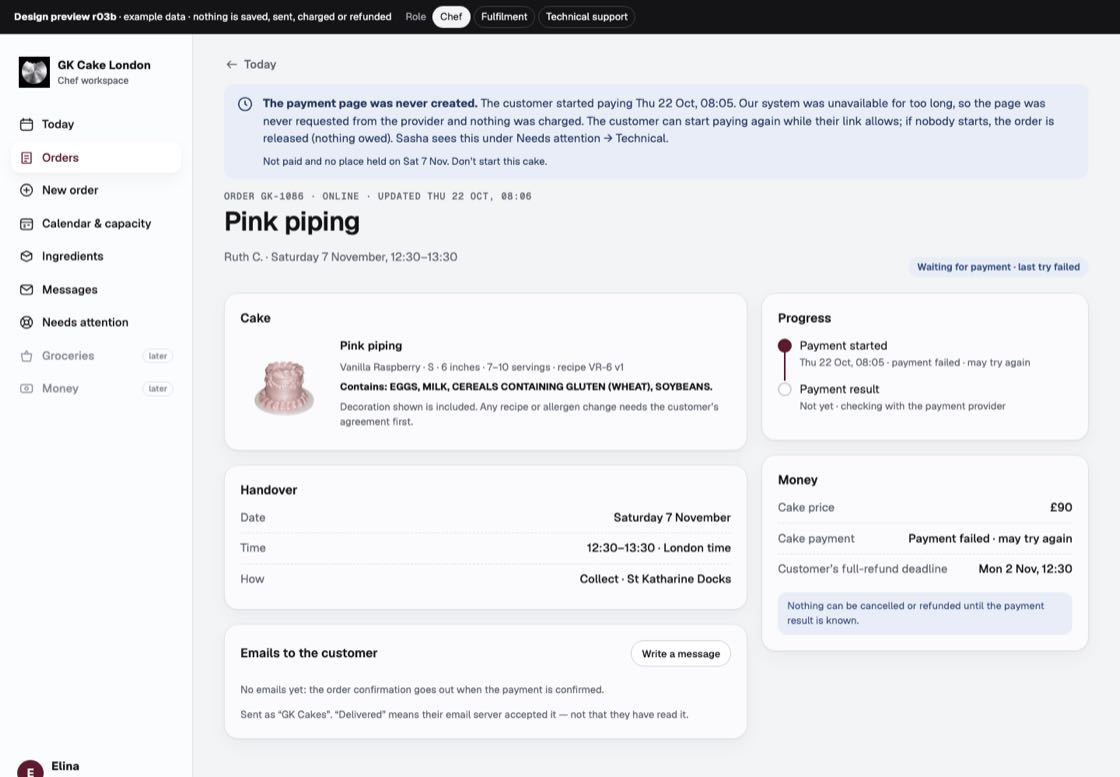
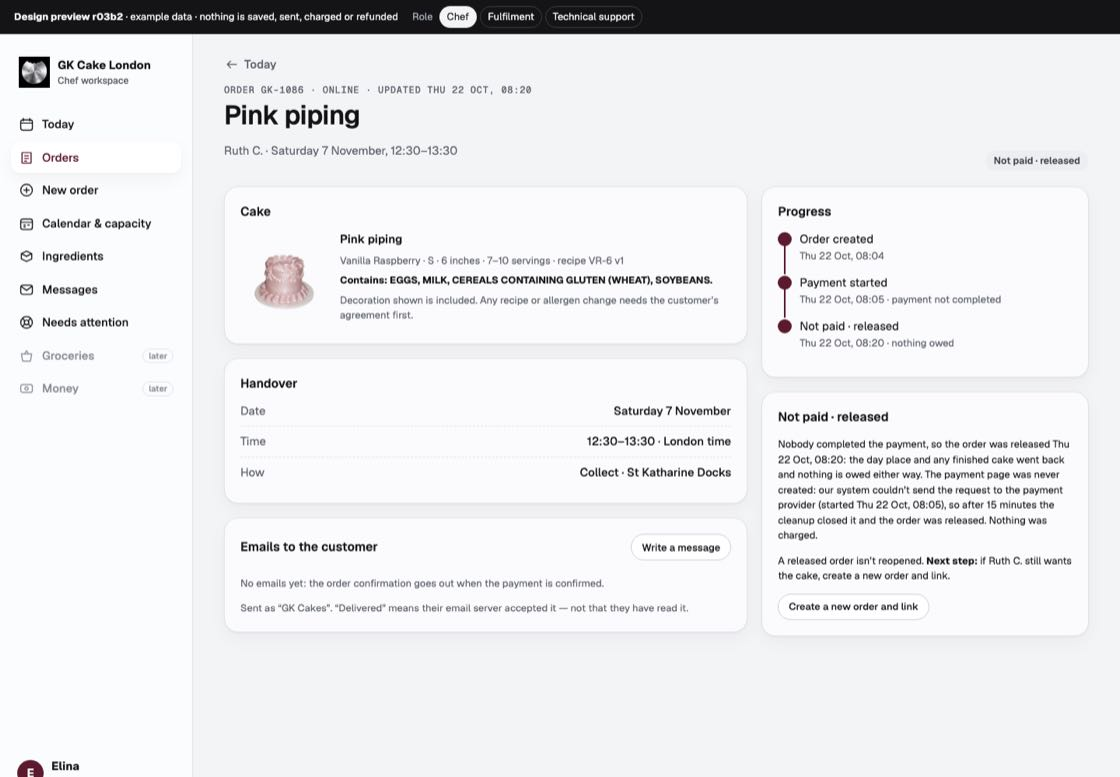
GK-018 r03b2: GK-1086 follows the hold review — the never-dispatched cleanup closes the created collection at 15 minutes (cancelled, never_dispatched) and the order is released (payment_not_completed; next step: a new order and link); Technical card says expired_before_dispatch only happens when the

diff --git a/docs/design/sessions/chef-operations/gk-018-r03/poc/order.js b/docs/design/sessions/chef-operations/gk-018-r03/poc/order.js
@@ -40,9 +40,9 @@ const banners=[];
 if(stale)banners.push(`<div class="banner banner-warn" role="alert">${icon('alert','banner-icon')}<div><p><strong>This order changed while you were looking.</strong> The collection time was moved to 12:00–13:00 at 10:44 on another device. Review the latest version before you act.</p><a class="btn btn-small" href="order.html?id=GK-1036&state=moved">Show latest</a></div></div>`);
 if(o.shortNotice)banners.push(`<div class="banner banner-info">${icon('clock','banner-icon')}<div><p><strong>Short notice · your choice</strong> <span class="chip-s chip-warn">proposed · needs K04 amendment</span> Paid in full ${when(o.paidAt)} — ${Math.round(hoursBetween(o.paidAt,startAt))} hours before handover (online orders need at least 192). You approved this on ${when(o.shortNotice.approvedAt)}: “${esc(o.shortNotice.reason)}”</p><p class="small">Your link let the customer start paying until ${when(o.shortNotice.startBy)} and accepted the order automatically only if paid in full by ${when(o.shortNotice.completeBy)}. They started ${when(o.paymentStartedAt)} and it completed in time.</p><p class="small">The customer’s full-refund deadline (${when(o.deadlineAt)}) had already passed when they paid, so if the customer cancels they get 50%.</p></div></div>`);
 // Waiting for payment: the collection's live state (created / pending / unknown, or a mismatch kept unknown).
-if(o.stage==='awaiting'){const p=o.payment||{};const m=p.mismatch;const head=m?'Payment doesn’t match the order.':p.state==='pending'?'Payment in progress.':p.state==='unknown'?'Payment result unknown.':p.reason==='expired_before_dispatch'?'The payment page was never created.':'Waiting for payment.';
+if(o.stage==='awaiting'){const p=o.payment||{};const m=p.mismatch;const head=m?'Payment doesn’t match the order.':p.state==='pending'?'Payment in progress.':p.state==='unknown'?'Payment result unknown.':'Waiting for payment.';
  const long=p.startedAt&&hoursBetween(p.startedAt,NOW)>0.25;
- banners.push(`<div class="banner ${m?'banner-bad':'banner-info'}" role="status">${icon(m?'alert':'clock','banner-icon')}<div><p><strong>${head}</strong> ${p.startedAt?`The customer started paying ${when(p.startedAt)}.`:''} ${p.reason==='expired_before_dispatch'?'Our system was unavailable for too long, so the page was never requested from the provider and nothing was charged. The customer can start paying again while their link allows; if nobody starts, the order is released (nothing owed). Sasha sees this under Needs attention → Technical.':m?(seesMoney?'The provider reports '+esc(m)+' ':'')+'It isn’t accepted: the order is never confirmed on payment evidence that doesn’t match.':p.state==='pending'&&!long?'The payment page is open.':'We’re checking with the payment provider'+(p.checkedAt?` (last checked ${when(p.checkedAt,{hour:'2-digit',minute:'2-digit',hourCycle:'h23'})})`:'')+'.'}</p>
+ banners.push(`<div class="banner ${m?'banner-bad':'banner-info'}" role="status">${icon(m?'alert':'clock','banner-icon')}<div><p><strong>${head}</strong> ${p.startedAt?`The customer started paying ${when(p.startedAt)}.`:''} ${m?(seesMoney?'The provider reports '+esc(m)+' ':'')+'It isn’t accepted: the order is never confirmed on payment evidence that doesn’t match.':p.state==='pending'&&!long?'The payment page is open.':'We’re checking with the payment provider'+(p.checkedAt?` (last checked ${when(p.checkedAt,{hour:'2-digit',minute:'2-digit',hourCycle:'h23'})})`:'')+'.'}</p>
  <p class="small">${HELD(o)?`${long||p.state==='unknown'?'The customer sees “Still checking payment; do not pay again”. ':''}No second payment can start while this one may still succeed. The place on ${dayShort(o.date)} stays held until we know${m?' and a manager has reconciled it':''}. `:`Not paid and no place held on ${dayShort(o.date)}. `}Don’t start this cake.</p>
  ${o.link&&seesMoney?`<p class="small">Your link: ${o.link.startBy===o.link.completeBy?`the customer must start and finish paying by <strong>${when(o.link.completeBy)}</strong> (192 hours before the handover, which came before the usual 24 hours)`:`the customer could start paying until <strong>${when(o.link.startBy)}</strong> and it’s accepted automatically only if paid in full by <strong>${when(o.link.completeBy)}</strong>`}. If it completes later it becomes “${LATE_LABEL()}”, never accepted silently.</p>`:''}
  ${m?`<p class="small"><a href="support.html">Needs attention</a> · a manager reconciles it (tools designed with GK-026).</p>`:''}</div></div>`)}
@@ -73,7 +73,7 @@ function deliveryCard(){if(o.mode!=='delivery')return '';const D=o.delivery;cons
  return `<section class="card" aria-labelledby="del-h"><h2 id="del-h" class="card-h">${icon('truck')}GK delivery</h2><dl class="facts"><div><dt>Address</dt><dd>${addr}</dd></div><div><dt>Delivery money</dt><dd>${dmoney}</dd></div></dl>${body}</section>`}
 
 // Refund ledger: one whole-order target; succeeded and unresolved refunds each counted once (K05).
-function released(){return `<section class="card" aria-labelledby="ref-h"><h2 id="ref-h" class="card-h">${CANCEL_REASON[o.cancelReason]}</h2><p class="small">${o.cancelReason==='free_not_confirmed'?'This free order wasn’t confirmed by the customer within 15 minutes':'Nobody completed the payment'}, so the order was released ${when(o.cancelledAt)}: the day place${o.free?'':' and any finished cake'} went back and nothing is owed either way.${seesMoney&&o.payment?` Last payment: ${PAY_STATE[o.payment.state][0].toLowerCase()} (started ${when(o.payment.startedAt)}). No money was taken, so there is nothing to refund.`:''}</p><p class="small muted">A released order isn’t reopened. If the customer comes back, create a new order and link.</p></section>`}
+function released(){return `<section class="card" aria-labelledby="ref-h"><h2 id="ref-h" class="card-h">${CANCEL_REASON[o.cancelReason]}</h2><p class="small">${o.cancelReason==='free_not_confirmed'?'This free order wasn’t confirmed by the customer within 15 minutes':'Nobody completed the payment'}, so the order was released ${when(o.cancelledAt)}: the day place${o.free?'':' and any finished cake'} went back and nothing is owed either way.${o.payment&&o.payment.reason==='never_dispatched'?` The payment page was never created: our system couldn’t send the request to the payment provider (started ${when(o.payment.startedAt)}), so after 15 minutes the cleanup closed it and the order was released. Nothing was charged.`:seesMoney&&o.payment?` Last payment: ${PAY_STATE[o.payment.state][0].toLowerCase()} (started ${when(o.payment.startedAt)}). No money was taken, so there is nothing to refund.`:''}</p><p class="small ${o.payment&&o.payment.reason==='never_dispatched'?'':'muted'}">A released order isn’t reopened. ${o.payment&&o.payment.reason==='never_dispatched'?`<strong>Next step:</strong> if ${esc(o.customer)} still wants the cake, create a new order and link.`:'If the customer comes back, create a new order and link.'}</p>${o.payment&&o.payment.reason==='never_dispatched'&&can('neworder')?`<a class="btn btn-small" href="new-order.html?date=${o.date}">Create a new order and link</a>`:''}</section>`}
 function ledger(){if(!o.collections)return released();if(!seesMoney)return `<section class="card" aria-labelledby="ref-h"><h2 id="ref-h" class="card-h">Cancelled</h2><p class="small">${o.cancel.by==='chef'?'Elina cancelled this order.':o.cancel.by==='system'?'This order was released before its payment completed.':'The customer cancelled this order.'} Nothing to make or hand over. Refunds are handled by Elina.</p></section>`;const C=o.collections||[];const P=C.reduce((n,c)=>n+c.paid,0);const c0=o.cancel;const T=refundTarget(o);const RS=refundState(o);
  const shares=allocate(T,C.map(c=>c.paid));const sum=(c,f)=>c.refunds.filter(f).reduce((n,r)=>n+r.amount,0);
  const ok=r=>r.status==='succeeded',open=r=>['reserved','submitting','pending','unknown','requires_action'].includes(r.status);
@@ -105,7 +105,7 @@ function cancelPanel(){if(!active)return '';if(!can('cancel'))return `<p class="
  <p class="small" data-conf-msg aria-live="polite"></p></div>
  <button class="btn btn-danger" type="button"${lock} data-cancel-go disabled>Cancel order and refund</button><p class="muted small">The refund goes to the payment provider first. We show it as not confirmed until they confirm. A cancelled order can’t be reopened.</p></div></details>`}
 
-const steps=o.stage==='cancelled'&&o.cancelReason&&!o.collections?[['Order created',o.version,''],...(o.payment?[['Payment started',o.payment.startedAt,PAY_STATE[o.payment.state][0].toLowerCase()]]:[]),[CANCEL_REASON[o.cancelReason],o.cancelledAt,'nothing owed']]
+const steps=o.stage==='cancelled'&&o.cancelReason&&!o.collections?[['Order created',o.created||o.version,''],...(o.payment?[['Payment started',o.payment.startedAt,PAY_STATE[o.payment.state][0].toLowerCase()]]:[]),[CANCEL_REASON[o.cancelReason],o.cancelledAt,'nothing owed']]
  :o.stage==='cancelled'&&o.cancel.by==='system'?[['Payment started',o.payment.startedAt,''],['Released · payment not completed',o.cancelledAt,''],['Payment arrived',o.paidAt,mm(o.payment.amount)],['Full return started',o.cancel.goal.requestedAt,'automatic'],['Refund confirmed',null,'']]
  :o.stage==='confirming'?[['Paid',o.paidAt,mm(o.payment.amount)],['Confirming the order',null,'usually seconds to minutes'],['In production (automatic)',o.autoAt,'48 hours after payment']]
  :o.stage==='cancelled'?[['Paid',o.paidAt,mm(paid)],['Cancelled',o.cancel.at,o.cancel.by==='chef'?'by you':'customer asked'],...(o.attention==='contradiction'&&seesMoney?[['Refund result changed',o.collections[0].refunds[0].changedAt,'needs a manager']]:[]),...(seesMoney?[['Refund sent',(o.collections[0].refunds[0]||{}).at,''],['Refund confirmed',(()=>{const all=o.collections.flatMap(c=>c.refunds);return o.collections.every(c=>c.refunds.length&&c.refunds.every(r=>r.status==='succeeded'))?all.map(r=>r.confirmedAt).sort().pop():null})(),'see Refund']]:[])]

diff --git a/docs/design/sessions/chef-operations/gk-018-r03/poc/support.js b/docs/design/sessions/chef-operations/gk-018-r03/poc/support.js
@@ -43,7 +43,7 @@ const items=[
  {group:'check',kind:'email',title:'Email result unknown',order:order('GK-1043'),body:`<p class="small">Message “Collection reminder” timed out ${when('2026-10-22T09:15:00Z')}. We don’t know if it was sent.</p>${recheck('GK-1043-mail')}<p class="small muted">${isChef?'':'Resending might send it twice, so only Elina decides. '}<a href="messages.html?order=GK-1043&state=unknown&show=problems">Open in Messages</a></p>`},
  // Technical (Sasha): jobs in attention that need setup work, not a money decision.
  {group:'tech',kind:'tech',title:'Payment provider refused our key (401)',order:null,body:`${fact([['Since',when('2026-10-22T09:35:00Z')],['Jobs in attention','2 · the next checks of GK-1042 (payment) and GK-1031 (refund), after their 10:30 checks'],['Effect','Nothing was sent; payments and refunds keep their state']])}<p class="small q-blocked">Fix: roll or update the worker’s payment-provider key, redeploy, then requeue the jobs. Until then those results stay unknown.</p><div class="actions">${tech('Requeue 2 jobs…')}</div>${isChef?'<p class="role-note">Sasha handles this; nothing for you to do.</p>':''}`},
- {group:'tech',kind:'tech',title:'Payment page never created (expired before dispatch)',order:r1086,body:`${fact([['When',when(r1086.payment.startedAt)],['Why','The page request was prepared at 08:06, then the recovery journal was unavailable until 09:50; with less than 31 minutes of page lifetime left, no call was made'],['Effect','Payment failed without contacting the provider · nothing charged · the customer can start again']])}<p class="small q-blocked">Check why the journal was down. The order needs nothing from Elina: if nobody starts paying, it’s released as “Not paid” with nothing owed.</p>`},
+ {group:'tech',kind:'tech',title:'Payment page never created (closed by the cleanup)',order:r1086,body:`${fact([['Started',when(r1086.payment.startedAt)],['Why','The recovery journal went down at 08:10, before the first call to the provider was admitted'],['Closed',`${when(r1086.cancelledAt)} · the never-dispatched cleanup closed the payment after 15 minutes (no call made) and the order was released`],['Effect','Nothing charged · order “Not paid · released” · Elina creates a new order and link if the customer still wants it']])}<p class="small q-blocked">Check why the journal was down. Normally the cleanup closes such a payment at 15 minutes, as here. Only if the hold review itself is delayed can a late first call be refused for too little page lifetime left (<code>expired_before_dispatch</code>: payment failed, job in attention); that would appear here too.</p>`},
  {group:'tech',kind:'tech',title:'Recovery journal unavailable',order:null,body:`${fact([['Since',when('2026-10-22T07:10:00Z')+' – '+when('2026-10-22T08:50:00Z',{hour:'2-digit',minute:'2-digit',hourCycle:'h23'})],['Effect','Payment and email jobs waited (not failed); no deadlines started while waiting']])}<p class="small q-blocked">Back since ${when('2026-10-22T08:50:00Z',{hour:'2-digit',minute:'2-digit',hourCycle:'h23'})}; waiting jobs continue by themselves. Requeue only jobs that reached attention meanwhile.</p><div class="actions">${tech('Requeue jobs in attention…')}</div>`},
  // Emails and Elina's to-dos.
  {group:'email',kind:'email',title:'Email bounced',order:o,body:`<p class="small">“Order confirmation” to <code>${st==='fixed'||st==='resent'?fixedEmail:esc(o.email)}</code> bounced ${when(o.emails[0][2])}. ${st==='fixed'||st==='resent'?'':'The address looks like a typo (“exmaple.com”).'}</p><ol class="stepper small">${step(1,'Sasha flags it to Elina','Technical support',idx>0,idx===0)}${step(2,'Elina checks with the customer and fixes the address','Chef',idx>1,idx===1)}${step(3,'Sasha (or Elina) resends','Technical support or chef',idx>2,idx===2)}</ol>${bounceAction}`},
@@ -55,7 +55,7 @@ const GROUPS=[['money','Money · needs a manager decision','Raised automatically
  ['tech','Technical (Sasha)','Jobs stopped for setup reasons: no money decision, nothing moved. Sasha fixes the cause, then requeues.'],
  ['email','Emails that didn’t arrive',''],['todo',REVIEW.role==='chef'?'Your open to-dos':'Elina’s open to-dos','']];
 
-const AUDIT=[['10:35','System','Payment provider refused the worker’s key (401): 2 jobs to attention',true],['09:50','System','Recovery journal back; waiting jobs resumed',true],['10:30','System','Checked GK-1083 payment, GK-1084 and GK-1050 refunds with the provider: still need a manager',true],['10:40','Sasha','Resent order confirmation for GK-1044 to the corrected address',st==='resent'],['10:31','Elina','Changed GK-1044 email address',idx>=2],['10:30','System','Checked GK-1042 payment and GK-1031 refund with the provider: still unknown',true],['10:12','Sasha','Flagged GK-1044 bounced email to Elina',idx>=1],['10:10','Sasha','Opened GK-1044 contact details',true]].filter(a=>a[3]).sort((a,b)=>b[0].localeCompare(a[0]));
+const AUDIT=[['10:35','System','Payment provider refused the worker’s key (401): 2 jobs to attention',true],['09:50','System','Recovery journal back; waiting jobs resumed',true],['08:20','System','Closed GK-1086 payment (never sent to the provider) and released the order',true],['10:30','System','Checked GK-1083 payment, GK-1084 and GK-1050 refunds with the provider: still need a manager',true],['10:40','Sasha','Resent order confirmation for GK-1044 to the corrected address',st==='resent'],['10:31','Elina','Changed GK-1044 email address',idx>=2],['10:30','System','Checked GK-1042 payment and GK-1031 refund with the provider: still unknown',true],['10:12','Sasha','Flagged GK-1044 bounced email to Elina',idx>=1],['10:10','Sasha','Opened GK-1044 contact details',true]].filter(a=>a[3]).sort((a,b)=>b[0].localeCompare(a[0]));
 
 mount(shell(`<header class="page-head"><div><p class="eyebrow">Needs attention</p><h1>Needs attention</h1><p class="muted">Problems behind the scenes: money cases that need a manager, results we’re still checking and emails that didn’t arrive. ${isSupport?'You can look, flag, check again and resend a bounced email once Elina has fixed it. Money and content changes stay with Elina.':'Technical support (Sasha) works from this list; money and content changes stay with you.'} Every view and action here is recorded.</p></div></header>
 ${GROUPS.map(([g,label,note])=>{const list=items.filter(it=>it.group===g);return list.length?`<h2 class="q-section">${label}<span class="count">${list.length}</span></h2>${note?`<p class="small muted">${note}</p>`:''}<section class="queue" aria-label="${label}">${list.map(it=>`<article class="card q-item q-${it.kind}"><div class="card-row"><h3 class="card-h"><span class="need-dot" aria-hidden="true"></span>${it.title}${it.order?` <span class="need-id">${it.order.id}</span>`:''}</h3>${it.order?`<a class="small" href="order.html?id=${it.order.id}">View order</a>`:''}</div>${it.order?`<p class="small muted">${esc(it.order.cake)} · ${esc(it.order.customer)} · ${dayShort(it.order.date)}</p>`:'<p class="small muted">Not tied to one order</p>'}${it.body}</article>`).join('')}</section>`:''}).join('')}

diff --git a/docs/design/sessions/chef-operations/gk-018-r03/poc/core.js b/docs/design/sessions/chef-operations/gk-018-r03/poc/core.js
@@ -168,9 +168,10 @@ ORDERS.push(
  stub('GK-1087','2026-10-31','13:30','choc','Noor E.','collection','2026-10-13T08:00:00Z',{stage:'cancelled',attention:'failed',
   cancel:{by:'chef',at:'2026-10-20T08:00:00Z',rule:100,goodwill:0,reason:'You cancelled: allergy we can’t cater for'},collections:[{kind:'cake',paid:9000,refunds:[{amount:9000,status:'failed',at:'2026-10-20T08:01:00Z',why:'The provider said the original card is closed and can’t receive refunds.',definitive:true}]}],
   emails:[['Order confirmation','delivered','2026-10-13T08:01:00Z'],['Cancellation and refund started','delivered','2026-10-20T08:02:00Z']]}),
- // r03b: a payment page that was never created: the journal was down too long, so the first call wasn't made
- // (dispatch rejected expired_before_dispatch; collection failed; job in attention). The customer may start again.
- stub('GK-1086','2026-11-07','12:30','pink','Ruth C.','collection','2026-10-22T07:05:00Z',{stage:'awaiting',paidAt:null,payment:{state:'failed',amount:9000,startedAt:'2026-10-22T07:05:00Z',reason:'expired_before_dispatch'},emails:[]}),
+ // r03b2: a payment page that was never created: the journal went down before the first call was admitted, so the
+ // never-dispatched cleanup closed the created collection at 15 minutes (cancelled, never_dispatched) and the hold
+ // review released the order (payment_not_completed). Nothing was charged; a new order and link is needed.
+ stub('GK-1086','2026-11-07','12:30','pink','Ruth C.','collection','2026-10-22T07:05:00Z',{stage:'cancelled',paidAt:null,version:'2026-10-22T07:20:00Z',created:'2026-10-22T07:04:00Z',cancelReason:'payment_not_completed',cancelledAt:'2026-10-22T07:20:00Z',payment:{state:'cancelled',amount:9000,startedAt:'2026-10-22T07:05:00Z',reason:'never_dispatched'},emails:[]}),
 );
 const order=id=>ORDERS.find(o=>o.id===id);
 const startOf=o=>london(o.date,o.slot.slice(0,5));
@@ -205,7 +206,7 @@ const ICON={today:'<path d="M3 10h18M7 3v4M17 3v4"/><rect x="3" y="5" width="18"
 const icon=(n,c='icon')=>`<svg class="${c}" viewBox="0 0 24 24" aria-hidden="true">${ICON[n]||ICON.arrow}</svg>`;
 const ACTIONS={preparing:['Start making','start'],making:['Mark ready','ready'],ready:['Hand over','handover']};
 // Live backend vocabulary (api/README.md at origin/main bed0a67). Chef-facing words; the backend name is kept for Sasha.
-const PAY_STATE={created:['Payment page being prepared','neutral'],pending:['Payment in progress','info'],unknown:['Payment result unknown','warn'],succeeded:['Paid','ok'],failed:['Payment failed · may try again','neutral'],cancelled:['Payment not completed','neutral']};
+const PAY_STATE={created:['Payment page being prepared','neutral'],pending:['Payment in progress','info'],unknown:['Payment result unknown','warn'],succeeded:['Paid','ok'],failed:['Payment failed · may try again within the 15-minute hold','neutral'],cancelled:['Payment not completed','neutral']};
 const CANCEL_REASON={payment_not_completed:'Not paid · released',free_not_confirmed:'Free order not confirmed · released'};
 const REFUND_STATE={requested:['Refund owed · nothing sent yet','info'],pending:['Refund in progress · not confirmed','info'],partly_returned:['Partly refunded','warn'],returned:['Refunded','ok'],needs_attention:['Refund needs attention','bad']};
 const OPEN_REFUND=['reserved','submitting','pending','unknown','requires_action'];
@@ -238,7 +239,7 @@ function needs(){const list=ORDERS.filter(detailsOverdue).map(o=>({kind:'details
  {kind:'stock',order:null,title:stockTitle(),detail:stockDetail(),action:'View ingredients',cap:null,href:'stock.html?filter=warnings'}])}
 
 function reviewBar(states){const link=(k,v,l)=>{const u=new URL(location.href);u.searchParams.set(k,v);if(k==='role')u.searchParams.delete('x');const cur=k==='role'?REVIEW.role===v:(q.get('state')||states[0][0])===v;return `<a href="${esc(u.pathname.split('/').pop()+u.search)}" ${cur?'aria-current="true"':''}>${l}</a>`};
- return `<div class="review-bar" role="region" aria-label="Design preview controls"><span><strong>Design preview r03b</strong> · example data · nothing is saved, sent, charged or refunded</span><span class="review-group"><span class="review-label">Role</span>${link('role','chef','Chef')}${link('role','fulfillment','Fulfilment')}${link('role','support','Technical support')}</span>${states&&states.length>1?`<span class="review-group"><span class="review-label">State</span>${states.map(([v,l])=>link('state',v,l)).join('')}</span>`:''}</div>`}
+ return `<div class="review-bar" role="region" aria-label="Design preview controls"><span><strong>Design preview r03b2</strong> · example data · nothing is saved, sent, charged or refunded</span><span class="review-group"><span class="review-label">Role</span>${link('role','chef','Chef')}${link('role','fulfillment','Fulfilment')}${link('role','support','Technical support')}</span>${states&&states.length>1?`<span class="review-group"><span class="review-label">State</span>${states.map(([v,l])=>link('state',v,l)).join('')}</span>`:''}</div>`}
 function shell(main,active,states){const nav=[['today','Today','index.html'],['orders','Orders','orders.html'],['plus','New order','new-order.html'],['calendar','Calendar & capacity','calendar.html'],['stock','Ingredients','stock.html'],['mail','Messages','messages.html'],['support','Needs attention','support.html'],['basket','Groceries',''],['money','Money','']];
  return `<a class="skip" href="#main">Skip to content</a>${reviewBar(states)}<div class="layout"><aside class="sidebar" aria-label="Chef workspace"><a class="brand" href="index.html" aria-label="GK Cake London chef workspace, Today"><img src="assets/chrome-emblem.png" alt="" width="40" height="40"><span><strong>GK Cake London</strong><small>Chef workspace</small></span></a><nav aria-label="Sections"><ul>${nav.map(([i,l,h])=>h?`<li><a href="${h}" ${active===i?'aria-current="page"':''}>${icon(i)}<span>${l}</span></a></li>`:`<li><span class="nav-later" title="Designed in a later revision">${icon(i)}<span>${l}</span><small>later</small></span></li>`).join('')}</ul></nav><div class="who"><span class="avatar" aria-hidden="true">${ROLE.initial}</span><span><strong>${ROLE.who}</strong><small>${ROLE.label}</small></span></div></aside><main id="main" class="main" tabindex="-1">${main}</main></div><div id="toast" class="toast" role="status" aria-live="polite"></div>`}
 const stagePill=o=>`<span class="pill pill-${o.stage}${o.cancelReason&&!o.collections?' pill-released':''}">${o.stage==='ready'||o.stage==='done'?icon('check','pill-icon'):''}${stageText(o)}</span>`;

diff --git a/docs/design/sessions/chef-operations/gk-018-r03/poc/today.js b/docs/design/sessions/chef-operations/gk-018-r03/poc/today.js
@@ -21,7 +21,7 @@ const over=s.committed>s.limit?`<p class="role-note">${s.committed} cakes accept
 mount(shell(`<header class="page-head"><div><p class="eyebrow">${isToday?'Today':'Day'} · London time</p><h1>${dayLabel(date)}</h1></div><div class="head-actions">${can('neworder')?`<a class="btn btn-primary" href="new-order.html?date=${date}">${icon('plus')}New order</a>`:''}<div class="day-switch" role="group" aria-label="Change day">${dayLink(prev,'Previous working day','back')}${isToday?'<span class="chip" aria-current="date">Today</span>':`<a class="chip chip-out" href="index.html">Today</a>`}${dayLink(next,'Next working day','arrow')}</div></div></header>
 <section class="grid-top"><article class="card capacity" aria-labelledby="cap-h"><h2 id="cap-h" class="card-h">Cakes for this day</h2><p class="cap-figure"><strong>${s.committed}</strong> of ${s.limit} standard places${s.override?' <span class="muted small">(your limit for this day)</span>':''}</p><div class="cap-bar" style="--n:${Math.max(s.limit,s.committed)}" role="img" aria-label="${s.committed} of ${s.limit} standard places used">${Array.from({length:Math.max(s.limit,s.committed)},(_,k)=>`<span class="${k<s.committed?(k>=s.limit?'over':'on'):''}"></span>`).join('')}</div>
 <p class="cap-extra">${s.extras?(can('capacity')?`+${s.extras} extra ${s.extras===1?'cake':'cakes'} you approved · outside the 7 · only you see this`:`+${s.extras} extra approved by Elina · not shown to customers`):'No extras approved'}</p>
-<p class="small"><strong>${s.workload} ${s.workload===1?'cake':'cakes'} to make</strong> (standard + extras)</p><p class="small places">${placesNote}</p>${over}
+<p class="small"><strong>${s.workload} ${s.workload===1?'cake':'cakes'} to make</strong>${s.awaitingDecision.length?`, incl. ${s.awaitingDecision.length} pending decision`:''} (standard + extras)</p><p class="small places">${placesNote}</p>${over}
 ${s.awaitingDecision.length?`<p class="small warn-text">Includes ${s.awaitingDecision.length} paid late · decision pending (${s.awaitingDecision.map(o=>o.id).join(', ')}): counted in the day, not to be started until ${REVIEW.role==='chef'?'you decide':'Elina decides'}. A full return would free the place.</p>`:''}
 ${can('capacity')?`<a class="btn" href="calendar.html?date=${date}">Adjust capacity</a>`:`<p class="role-note">Changing capacity: ${ONLY_CHEF}</p>`}</article>
 <article class="card needs" aria-labelledby="needs-h"><h2 id="needs-h" class="card-h">Needs you <span class="count">${N.length}</span></h2><ul class="needs-list">${N.map(n=>{const allowed=!n.cap||can(n.cap);const label=allowed?n.action:'View';const href=n.href&&(allowed||!n.order||REVIEW.role==='support')?n.href:n.order?`order.html?id=${n.order}`:n.href;return `<li class="need need-${n.kind}"><span class="need-dot" aria-hidden="true"></span><div><p class="need-title">${esc(n.title)} ${n.order?`<span class="need-id">${n.order}</span>`:''}</p><p class="need-detail">${esc(!seesMoney&&n.fdetail?n.fdetail:n.detail)}</p>${allowed?'':`<p class="role-note small">${n.kind==='email'&&REVIEW.role==='support'?'You flagged this. After Elina fixes the address you can resend it from Needs attention.':ONLY_CHEF}</p>`}</div><a class="btn btn-small" href="${href}">${label}</a></li>`}).join('')}</ul></article></section>

diff --git a/docs/design/sessions/chef-operations/gk-018-r03/poc/calendar.html b/docs/design/sessions/chef-operations/gk-018-r03/poc/calendar.html
@@ -1,2 +1,2 @@
 <!doctype html>
-<html lang="en-GB"><head><meta charset="utf-8"><meta name="viewport" content="width=device-width,initial-scale=1"><meta name="robots" content="noindex,nofollow"><title>Calendar &amp; capacity · GK Cake London chef workspace (design preview r03b)</title><link rel="icon" href="assets/chrome-emblem.png"><link rel="stylesheet" href="admin.css"><script src="core.js" defer></script><script src="calendar.js" defer></script></head><body data-page="calendar"><noscript>This local design prototype needs JavaScript. Nothing is saved or sent.</noscript><div id="app"></div></body></html>
+<html lang="en-GB"><head><meta charset="utf-8"><meta name="viewport" content="width=device-width,initial-scale=1"><meta name="robots" content="noindex,nofollow"><title>Calendar &amp; capacity · GK Cake London chef workspace (design preview r03b2)</title><link rel="icon" href="assets/chrome-emblem.png"><link rel="stylesheet" href="admin.css"><script src="core.js" defer></script><script src="calendar.js" defer></script></head><body data-page="calendar"><noscript>This local design prototype needs JavaScript. Nothing is saved or sent.</noscript><div id="app"></div></body></html>

diff --git a/docs/design/sessions/chef-operations/gk-018-r03/poc/support.html b/docs/design/sessions/chef-operations/gk-018-r03/poc/support.html
@@ -1,2 +1,2 @@
 <!doctype html>
-<html lang="en-GB"><head><meta charset="utf-8"><meta name="viewport" content="width=device-width,initial-scale=1"><meta name="robots" content="noindex,nofollow"><title>Needs attention · GK Cake London chef workspace (design preview r03b)</title><link rel="icon" href="assets/chrome-emblem.png"><link rel="stylesheet" href="admin.css"><script src="core.js" defer></script><script src="support.js" defer></script></head><body data-page="support"><noscript>This local design prototype needs JavaScript. Nothing is saved or sent.</noscript><div id="app"></div></body></html>
+<html lang="en-GB"><head><meta charset="utf-8"><meta name="viewport" content="width=device-width,initial-scale=1"><meta name="robots" content="noindex,nofollow"><title>Needs attention · GK Cake London chef workspace (design preview r03b2)</title><link rel="icon" href="assets/chrome-emblem.png"><link rel="stylesheet" href="admin.css"><script src="core.js" defer></script><script src="support.js" defer></script></head><body data-page="support"><noscript>This local design prototype needs JavaScript. Nothing is saved or sent.</noscript><div id="app"></div></body></html>

diff --git a/docs/design/sessions/chef-operations/gk-018-r03/poc/new-order.html b/docs/design/sessions/chef-operations/gk-018-r03/poc/new-order.html
@@ -1,2 +1,2 @@
 <!doctype html>
-<html lang="en-GB"><head><meta charset="utf-8"><meta name="viewport" content="width=device-width,initial-scale=1"><meta name="robots" content="noindex,nofollow"><title>New order · GK Cake London chef workspace (design preview r03b)</title><link rel="icon" href="assets/chrome-emblem.png"><link rel="stylesheet" href="admin.css"><script src="core.js" defer></script><script src="new-order.js" defer></script></head><body data-page="new-order"><noscript>This local design prototype needs JavaScript. Nothing is saved or sent.</noscript><div id="app"></div></body></html>
+<html lang="en-GB"><head><meta charset="utf-8"><meta name="viewport" content="width=device-width,initial-scale=1"><meta name="robots" content="noindex,nofollow"><title>New order · GK Cake London chef workspace (design preview r03b2)</title><link rel="icon" href="assets/chrome-emblem.png"><link rel="stylesheet" href="admin.css"><script src="core.js" defer></script><script src="new-order.js" defer></script></head><body data-page="new-order"><noscript>This local design prototype needs JavaScript. Nothing is saved or sent.</noscript><div id="app"></div></body></html>

diff --git a/docs/design/sessions/chef-operations/gk-018-r03/poc/messages.html b/docs/design/sessions/chef-operations/gk-018-r03/poc/messages.html
@@ -1,2 +1,2 @@
 <!doctype html>
-<html lang="en-GB"><head><meta charset="utf-8"><meta name="viewport" content="width=device-width,initial-scale=1"><meta name="robots" content="noindex,nofollow"><title>Messages · GK Cake London chef workspace (design preview r03b)</title><link rel="icon" href="assets/chrome-emblem.png"><link rel="stylesheet" href="admin.css"><script src="core.js" defer></script><script src="messages.js" defer></script></head><body data-page="messages"><noscript>This local design prototype needs JavaScript. Nothing is saved or sent.</noscript><div id="app"></div></body></html>
+<html lang="en-GB"><head><meta charset="utf-8"><meta name="viewport" content="width=device-width,initial-scale=1"><meta name="robots" content="noindex,nofollow"><title>Messages · GK Cake London chef workspace (design preview r03b2)</title><link rel="icon" href="assets/chrome-emblem.png"><link rel="stylesheet" href="admin.css"><script src="core.js" defer></script><script src="messages.js" defer></script></head><body data-page="messages"><noscript>This local design prototype needs JavaScript. Nothing is saved or sent.</noscript><div id="app"></div></body></html>

diff --git a/docs/design/sessions/chef-operations/gk-018-r03/poc/stock.html b/docs/design/sessions/chef-operations/gk-018-r03/poc/stock.html
@@ -1,2 +1,2 @@
 <!doctype html>
-<html lang="en-GB"><head><meta charset="utf-8"><meta name="viewport" content="width=device-width,initial-scale=1"><meta name="robots" content="noindex,nofollow"><title>Ingredients · GK Cake London chef workspace (design preview r03b)</title><link rel="icon" href="assets/chrome-emblem.png"><link rel="stylesheet" href="admin.css"><script src="core.js" defer></script><script src="stock.js" defer></script></head><body data-page="stock"><noscript>This local design prototype needs JavaScript. Nothing is saved or sent.</noscript><div id="app"></div></body></html>
+<html lang="en-GB"><head><meta charset="utf-8"><meta name="viewport" content="width=device-width,initial-scale=1"><meta name="robots" content="noindex,nofollow"><title>Ingredients · GK Cake London chef workspace (design preview r03b2)</title><link rel="icon" href="assets/chrome-emblem.png"><link rel="stylesheet" href="admin.css"><script src="core.js" defer></script><script src="stock.js" defer></script></head><body data-page="stock"><noscript>This local design prototype needs JavaScript. Nothing is saved or sent.</noscript><div id="app"></div></body></html>

diff --git a/docs/design/sessions/chef-operations/gk-018-r03/poc/orders.html b/docs/design/sessions/chef-operations/gk-018-r03/poc/orders.html
@@ -1,2 +1,2 @@
 <!doctype html>
-<html lang="en-GB"><head><meta charset="utf-8"><meta name="viewport" content="width=device-width,initial-scale=1"><meta name="robots" content="noindex,nofollow"><title>Orders · GK Cake London chef workspace (design preview r03b)</title><link rel="icon" href="assets/chrome-emblem.png"><link rel="stylesheet" href="admin.css"><script src="core.js" defer></script><script src="orders.js" defer></script></head><body data-page="orders"><noscript>This local design prototype needs JavaScript. Nothing is saved or sent.</noscript><div id="app"></div></body></html>
+<html lang="en-GB"><head><meta charset="utf-8"><meta name="viewport" content="width=device-width,initial-scale=1"><meta name="robots" content="noindex,nofollow"><title>Orders · GK Cake London chef workspace (design preview r03b2)</title><link rel="icon" href="assets/chrome-emblem.png"><link rel="stylesheet" href="admin.css"><script src="core.js" defer></script><script src="orders.js" defer></script></head><body data-page="orders"><noscript>This local design prototype needs JavaScript. Nothing is saved or sent.</noscript><div id="app"></div></body></html>

diff --git a/docs/design/sessions/chef-operations/gk-018-r03/poc/index.html b/docs/design/sessions/chef-operations/gk-018-r03/poc/index.html
@@ -1,2 +1,2 @@
 <!doctype html>
-<html lang="en-GB"><head><meta charset="utf-8"><meta name="viewport" content="width=device-width,initial-scale=1"><meta name="robots" content="noindex,nofollow"><title>Today · GK Cake London chef workspace (design preview r03b)</title><link rel="icon" href="assets/chrome-emblem.png"><link rel="stylesheet" href="admin.css"><script src="core.js" defer></script><script src="today.js" defer></script></head><body data-page="index"><noscript>This local design prototype needs JavaScript. Nothing is saved or sent.</noscript><div id="app"></div></body></html>
+<html lang="en-GB"><head><meta charset="utf-8"><meta name="viewport" content="width=device-width,initial-scale=1"><meta name="robots" content="noindex,nofollow"><title>Today · GK Cake London chef workspace (design preview r03b2)</title><link rel="icon" href="assets/chrome-emblem.png"><link rel="stylesheet" href="admin.css"><script src="core.js" defer></script><script src="today.js" defer></script></head><body data-page="index"><noscript>This local design prototype needs JavaScript. Nothing is saved or sent.</noscript><div id="app"></div></body></html>

diff --git a/docs/design/sessions/chef-operations/gk-018-r03/poc/order.html b/docs/design/sessions/chef-operations/gk-018-r03/poc/order.html
@@ -1,2 +1,2 @@
 <!doctype html>
-<html lang="en-GB"><head><meta charset="utf-8"><meta name="viewport" content="width=device-width,initial-scale=1"><meta name="robots" content="noindex,nofollow"><title>Order · GK Cake London chef workspace (design preview r03b)</title><link rel="icon" href="assets/chrome-emblem.png"><link rel="stylesheet" href="admin.css"><script src="core.js" defer></script><script src="order.js" defer></script></head><body data-page="order"><noscript>This local design prototype needs JavaScript. Nothing is saved or sent.</noscript><div id="app"></div></body></html>
+<html lang="en-GB"><head><meta charset="utf-8"><meta name="viewport" content="width=device-width,initial-scale=1"><meta name="robots" content="noindex,nofollow"><title>Order · GK Cake London chef workspace (design preview r03b2)</title><link rel="icon" href="assets/chrome-emblem.png"><link rel="stylesheet" href="admin.css"><script src="core.js" defer></script><script src="order.js" defer></script></head><body data-page="order"><noscript>This local design prototype needs JavaScript. Nothing is saved or sent.</noscript><div id="app"></div></body></html>
